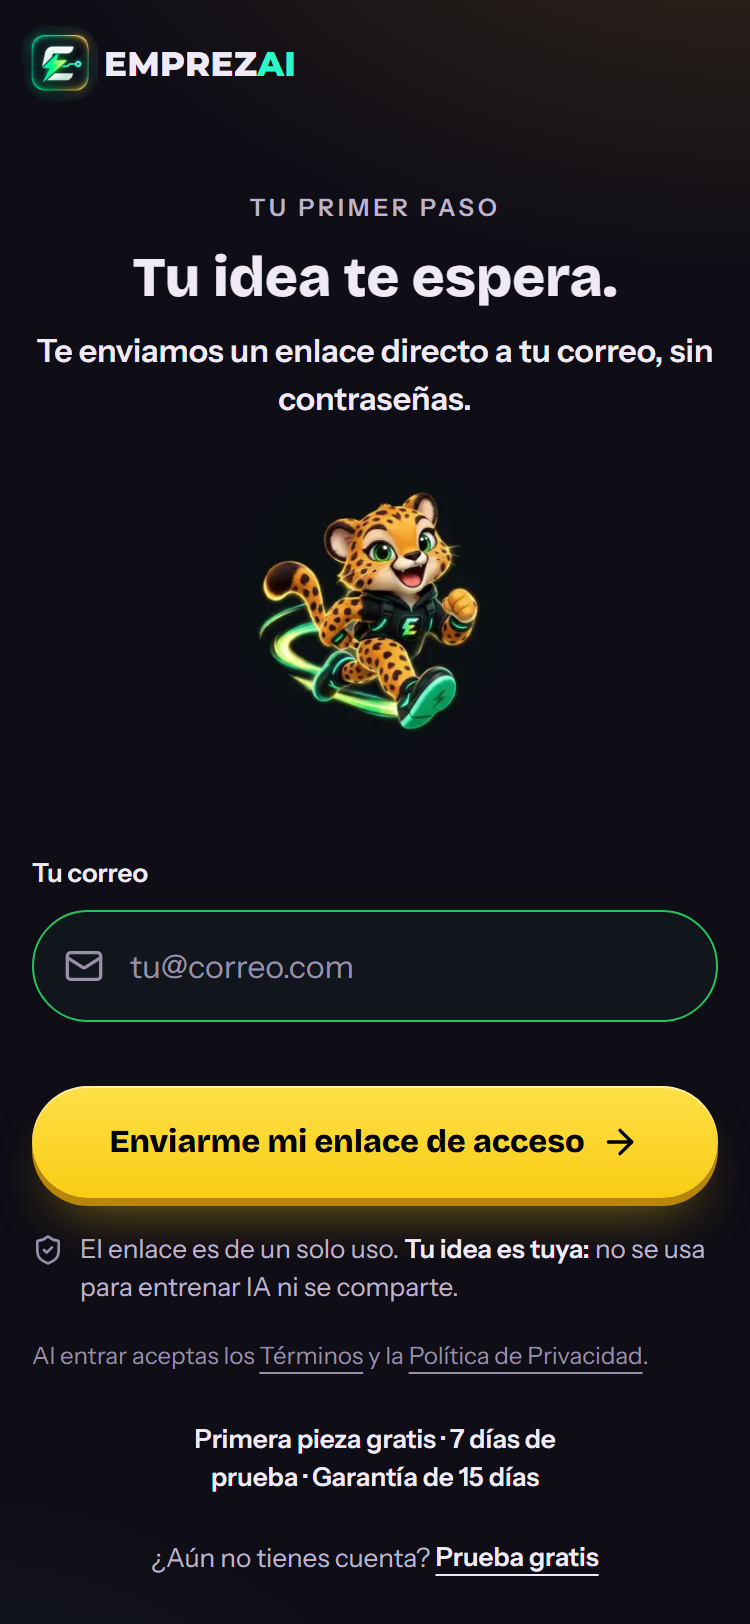
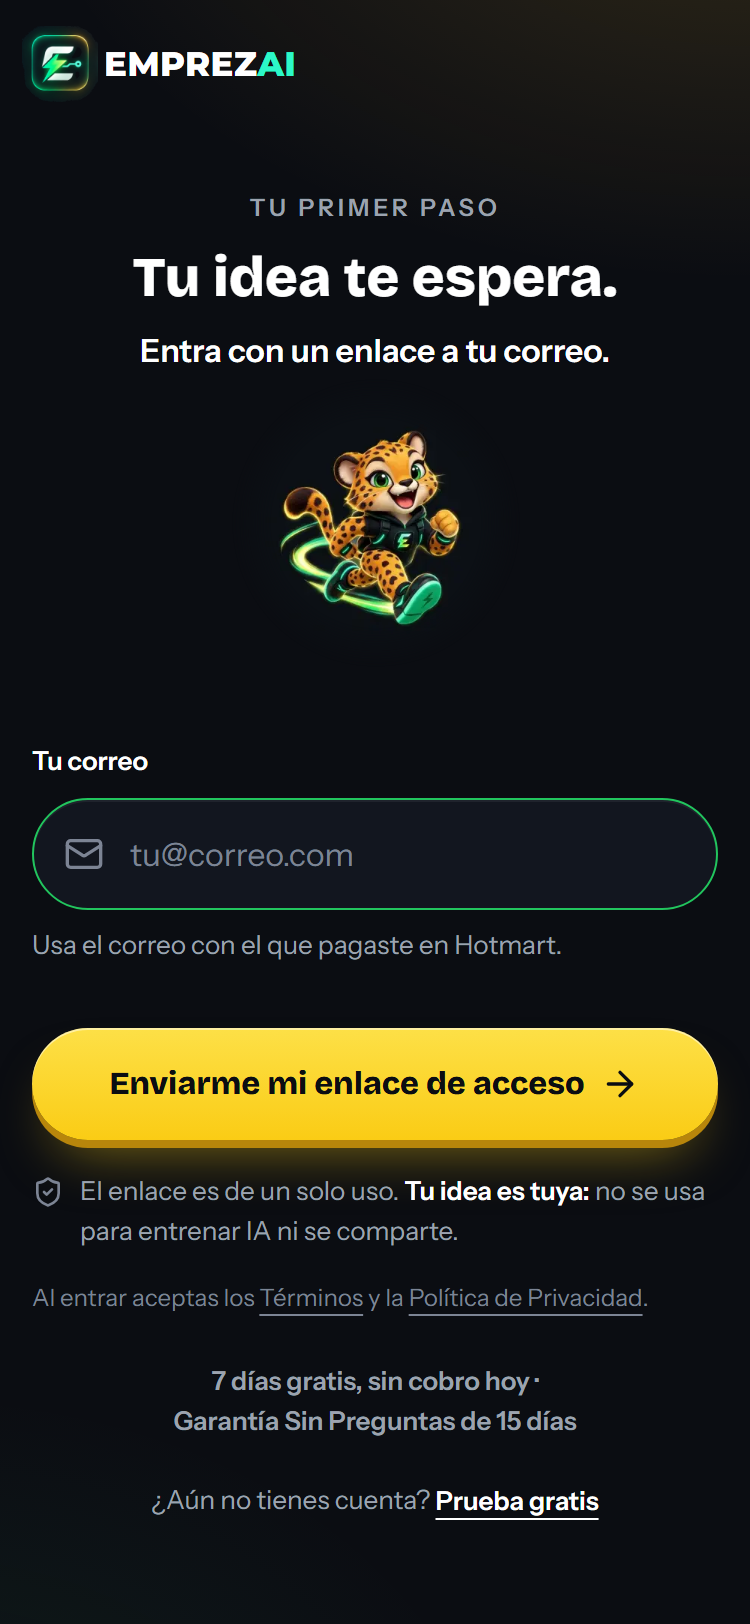
wip: portada y Entrar con paleta oficial, oferta única y demo (NO LISTA 32/40 y 30/40)

diff --git a/components/acceso/Acceso.tsx b/components/acceso/Acceso.tsx
@@ -15,6 +15,7 @@ import Link from 'next/link';
 import { useRouter } from 'next/navigation';
 import { AnimatePresence, motion, useReducedMotion } from 'motion/react';
 import Image from 'next/image';
+import { FraseOferta } from '@/components/landing/FraseOferta';
 import { ArrowRight, Check, Mail, CheckCircle2, CircleAlert, Copy, KeyRound, LoaderCircle, MailCheck, RotateCcw, ShieldCheck } from 'lucide-react';
 import { Marca } from '@/components/app/Marca';
 import { CheckCustom, EASE_SALIDA, RutaMini, TituloAcento, vibrar } from '@/components/onboarding/piezas';
@@ -317,7 +318,7 @@ export function Acceso() {
   });
 
   return (
-    <main className="fondo-recorrido min-h-dvh overflow-x-clip">
+    <main className="fondo-recorrido paleta-portada min-h-dvh overflow-x-clip">
       <div className="mx-auto flex min-h-dvh w-full max-w-md flex-col px-4 pb-8">
         <motion.header {...entrar(0)} className="flex h-16 items-center">
           <Link href="/" className="flex min-h-11 items-center gap-2" aria-label="EMPREZAI, ir al inicio">
@@ -526,14 +527,14 @@ export function Acceso() {
               <motion.div {...entrar(1)} className="text-center">
                 <p className="text-xs font-semibold tracking-[0.16em] text-ink-2 uppercase">Tu primer paso</p>
                 <h1 className="mt-3 font-display text-pregunta font-extrabold text-ink-1">Tu idea te espera.</h1>
-                <p className="mt-2 text-base font-semibold text-ink-1">Te enviamos un enlace directo a tu correo, sin contraseñas.</p>
-                <div className="relative mx-auto mt-2 aspect-square w-full max-w-44">
+                <p className="mt-2 text-base font-semibold text-ink-1">Entra con un enlace a tu correo.</p>
+                <div className="relative mx-auto mt-2 aspect-square w-full max-w-36">
                   <Image
                     src="/images/jaguar-login.webp"
                     alt=""
                     fill
                     priority
-                    sizes="176px"
+                    sizes="144px"
                     style={reduce ? undefined : { animation: 'personaje-flota 3.2s ease-in-out infinite' }}
                     className="object-contain [mask-image:radial-gradient(closest-side,#000_72%,transparent_100%)]"
                   />
@@ -606,11 +607,12 @@ export function Acceso() {
                   aria-invalid={Boolean(errorCampo)}
                   aria-describedby={errorCampo ? `${idCampo}-error` : undefined}
                   key={intentos}
-                  className={`h-14 w-full rounded-[var(--radius-pill)] border bg-[var(--portada-campo)] pr-5 pl-12 text-base text-ink-1 placeholder:text-ink-3 focus:outline-none ${
+                  className={`h-14 w-full rounded-[var(--radius-pill)] border bg-[var(--surface)] shadow-[inset_0_1px_0_rgb(255_255_255/0.06)] pr-5 pl-12 text-base text-ink-1 placeholder:text-ink-3 focus:outline-none ${
                     errorCampo ? 'sacudir border-danger' : 'border-[var(--portada-borde)] focus:border-[var(--portada-verde)]'
                   }`}
                 />
                 </div>
+                <p className="text-caption text-ink-2">Usa el correo con el que pagaste en Hotmart.</p>
                 {errorCampo && (
                   <p id={`${idCampo}-error`} role="alert" className="text-caption text-danger">
                     {errorCampo}
@@ -696,8 +698,8 @@ export function Acceso() {
                 </p>
               </motion.form>
 
-              <motion.p {...entrar(3)} className="mt-6 text-balance text-center text-caption font-semibold text-ink-1">
-                Primera pieza gratis · 7 días de prueba · Garantía de 15 días
+              <motion.p {...entrar(3)} className="mt-6 text-balance text-center text-caption font-semibold text-ink-2">
+                <FraseOferta />
               </motion.p>
 
               {!tienePieza && (

diff --git a/components/landing/DemoMision.tsx b/components/landing/DemoMision.tsx
@@ -1,0 +1,45 @@
+// Mini demo estático: cómo se ve una misión de 5 minutos resuelta por la IA (ejemplo rotulado como tal).
+import { Check, Clock, Sparkles } from 'lucide-react';
+
+export function DemoMision() {
+  return (
+    <section aria-labelledby="demo-mision" className="px-4 py-12">
+      <div className="mx-auto max-w-[620px]">
+        <h2 id="demo-mision" className="text-balance text-center font-display text-pregunta font-bold text-ink-1">
+          Así se ve una misión de 5 minutos
+        </h2>
+        <p className="mt-2 text-center text-caption text-ink-2">Ejemplo con un negocio inventado. En la app, la IA usa tus respuestas.</p>
+
+        <div className="mt-8 rounded-[var(--radius-card)] border border-[var(--portada-borde)] bg-[var(--surface)] p-4 shadow-[var(--shadow-2)]">
+          <div className="flex items-center justify-between text-xs font-semibold tracking-[0.08em] text-ink-2 uppercase">
+            <span>Tu misión de hoy</span>
+            <span className="inline-flex items-center gap-1 text-ink-1">
+              <Clock size={16} aria-hidden="true" />5 min
+            </span>
+          </div>
+          <p className="mt-3 font-display text-base font-bold text-ink-1">¿Qué problema resuelves y para quién?</p>
+          <p className="mt-3 flex items-start gap-2 text-base text-ink-2">
+            <Check size={16} className="mt-1 shrink-0 text-[var(--portada-verde)]" aria-hidden="true" />
+            <span>
+              Tu respuesta: <strong className="font-semibold text-ink-1">«Ayudo a mamás ocupadas a preparar comida sana en 20 minutos.»</strong>
+            </span>
+          </p>
+
+          <div className="mt-4 border-t border-[var(--portada-borde)] pt-4">
+            <p className="inline-flex items-center gap-2 text-xs font-semibold tracking-[0.08em] text-[var(--portada-amarillo)] uppercase">
+              <Sparkles size={16} aria-hidden="true" />
+              La IA armó tu propuesta de valor
+            </p>
+            <p className="mt-2 text-base leading-relaxed text-ink-1">
+              «Comida sana para mamás con poco tiempo: <strong className="font-bold">menús listos en 20 minutos</strong>, sin pensar qué cocinar cada noche.»
+            </p>
+            <p className="mt-3 inline-flex items-center gap-2 text-caption font-semibold text-ink-2">
+              <Check size={16} className="text-[var(--portada-verde)]" aria-hidden="true" />
+              Guardada en Mi Empresa, lista para usar
+            </p>
+          </div>
+        </div>
+      </div>
+    </section>
+  );
+}

diff --git a/app/page.tsx b/app/page.tsx
@@ -26,6 +26,7 @@ import {
 } from 'lucide-react';
 import Image from 'next/image';
 import { HeroPortada } from '@/components/landing/HeroPortada';
+import { DemoMision } from '@/components/landing/DemoMision';
 import { QueRecibes } from '@/components/landing/QueRecibes';
 import { Problema } from '@/components/landing/Problema';
 import { Agitacion } from '@/components/landing/Agitacion';
@@ -64,10 +65,12 @@ export default function PaginaDeVentas() {
   useEventoAlMontar('landing_vista');
 
   return (
-    <div className="min-h-dvh bg-[var(--bg)] text-[var(--text-primary)] [font-family:var(--font-body)]">
+    <div className="paleta-portada min-h-dvh bg-[var(--bg)] text-[var(--text-primary)] [font-family:var(--font-body)]">
       <HeroPortada ctaHref={CTA_HREF} loginHref="/login" />
 
       <QueRecibes />
+
+      <DemoMision />
 
       <Problema
         titulo="¿Te suena [acento]alguna de estas noches[/acento]?"
@@ -129,9 +132,9 @@ export default function PaginaDeVentas() {
         tituloMarked="Empieza gratis. Sigue por [acento]$0.22 al día[/acento]"
         trialDias={7}
         stack={{
-          lineas: [{ resultado: 'Mes a mes', valor: '$119.88' }],
+          lineas: [{ resultado: 'Pagando mes a mes por un año', valor: '$119.88' }],
           totalTachado: '$119.88',
-          nota: 'Anual: $79.99',
+          nota: `Plan anual: $79.99 · ahorras ${AHORRO_ANUAL}`,
         }}
         anual={{
           nombre: 'Anual',
@@ -231,7 +234,7 @@ export default function PaginaDeVentas() {
         ]}
       />
 
-      <StickyCtaMobile labelComercial={CTA_LABEL} href={CTA_HREF} />
+      <StickyCtaMobile labelComercial={CTA_LABEL} href={CTA_HREF} labelPre="Empezar mis 7 días gratis" />
     </div>
   );
 }

diff --git a/components/landing/Oferta.tsx b/components/landing/Oferta.tsx
@@ -8,6 +8,7 @@
 // la card recomendada (el uso canónico de la técnica) · checkmarks custom.
 // El destino de los CTAs sigue al MODELO de 02C (checkout vs /onboarding).
 
+import { FraseOferta } from './FraseOferta';
 import { motion } from 'motion/react';
 import { ShieldCheck, Star } from 'lucide-react';
 import { CheckCustom, CtaButton, Hairline, Kicker, SectionShell, useReveal, VIEWPORT_ONCE, EnlaceCta } from './ui';
@@ -114,6 +115,7 @@ export function Oferta({
           <h2 className="text-balance text-[30px] font-bold leading-[1.15] text-[var(--text-primary)] [font-family:var(--font-display)] md:text-[40px]">
             <MarkedCopy text={tituloMarked} />
           </h2>
+          <p className="mt-3 text-balance text-center text-[16px] font-semibold text-[var(--text-primary)]"><FraseOferta /></p>
         </motion.div>
 
         {/* Stack de valor Hormozi — ARRIBA de los planes; el tachado es del TOTAL
@@ -124,7 +126,7 @@ export function Oferta({
             className="tarjeta-relieve mx-auto mt-8 max-w-[560px] rounded-[var(--radius-card)] px-5 py-4 text-center text-[16px] text-[var(--text-secondary)]"
           >
             <span className="block">
-              {stack.lineas[0]?.resultado}: <span className="tabular-nums line-through">{stack.totalTachado}</span>/año
+              {stack.lineas[0]?.resultado}: <span className="tabular-nums">{stack.totalTachado}</span> al año
             </span>
             {stack.nota && <span className="mt-1 block font-semibold text-[var(--text-primary)]">{stack.nota}</span>}
           </motion.p>

diff --git a/components/landing/HeroPortada.tsx b/components/landing/HeroPortada.tsx
@@ -9,6 +9,7 @@ import { ArrowRight } from 'lucide-react';
 import { motion, useReducedMotion } from 'motion/react';
 import { Marca } from '@/components/app/Marca';
 import { EnlaceCta } from './ui';
+import { FraseOferta } from './FraseOferta';
 
 export function HeroPortada({ ctaHref, loginHref }: { ctaHref: string; loginHref: string }) {
   const reduce = useReducedMotion();
@@ -76,13 +77,8 @@ export function HeroPortada({ ctaHref, loginHref }: { ctaHref: string; loginHref
           </motion.div>
 
           <motion.div {...entrar(4)} className="mt-3 flex flex-col items-center gap-1 text-caption text-ink-2">
-            <p>
-              <strong className="font-semibold text-ink-1">5 minutos al día</strong> · <strong className="font-semibold text-ink-1">Empieza gratis</strong>
-            </p>
-            <p className="max-w-[30ch] text-balance">
-              Cada día la IA arma <strong className="font-semibold text-ink-1">una pieza de tu negocio</strong>.
-            </p>
-            <p className="text-ink-2">Prueba de 7 días · Garantía de 15 días · Cancelas cuando quieras</p>
+            <p className="font-semibold text-ink-1">5 minutos al día</p>
+            <p className="font-semibold text-ink-1"><FraseOferta /></p>
           </motion.div>
 
           <motion.div {...entrar(5)} className="relative mt-4 aspect-square w-full max-w-60">

diff --git a/app/globals.css b/app/globals.css
@@ -526,7 +526,7 @@ body {
 }
 .boton-portada {
   background: linear-gradient(180deg, var(--portada-amarillo-claro), var(--portada-amarillo));
-  color: #000;
+  color: #0b0d12;
   font-weight: 800;
   box-shadow:
     inset 0 1px 0 rgb(255 255 255 / 0.5),
@@ -543,4 +543,17 @@ body {
 @keyframes personaje-flota {
   0%, 100% { transform: translateY(0); }
   50% { transform: translateY(-6px); }
+}
+
+/* Paleta oficial de EMPREZAI (dueña, 2026-11-24): solo portada y Entrar. Un único amarillo (#facc15). */
+.paleta-portada {
+  --bg: #0b0d12; --surface: #12161f; --surface-2: #0b0d12;
+  --text-primary: #ffffff; --text-secondary: #9ca3af; --text-tertiary: #7c8494;
+  --accent: #facc15; --accent-2: #22c55e; --accent-on-inverse: #facc15; --inverse-bg: #12161f; --frame: #1f2937;
+  --cta-relieve: 0 4px 0 #b8860b;
+  --gold: #facc15; --gold-light: #fde047; --gold-deep: #b8860b; --on-gold: #0b0d12;
+  --green: #22c55e; --green-light: #4ade80; --green-deep: #16a34a;
+  --surface-base: #0b0d12; --surface-raised: #12161f; --surface-raised-2: #12161f; --surface-sunken: #0b0d12;
+  --ink-1: #ffffff; --ink-2: #9ca3af; --ink-3: #7c8494; --line: #1f2937;
+  --portada-borde: #1f2937;
 }

diff --git a/components/landing/QueRecibes.tsx b/components/landing/QueRecibes.tsx
@@ -1,11 +1,12 @@
 // Justo debajo de la portada: qué es EMPREZAI y qué recibe la persona, en 4 datos claros.
+import { FRASE_OFERTA } from './ofertaFrase';
 import { CalendarRange, Clock, Gift, Sparkles } from 'lucide-react';
 
 const DATOS = [
   { icono: CalendarRange, titulo: 'Una ruta de 30 días', detalle: 'Te guía paso a paso, desde tu idea hasta tu negocio armado.' },
   { icono: Clock, titulo: '5 minutos al día', detalle: 'Una misión corta desde el celular. Sin cursos largos.' },
   { icono: Sparkles, titulo: 'La IA arma tus piezas', detalle: 'Tu oferta, tu nombre y tus textos se crean dentro de la app: no copias nada.' },
-  { icono: Gift, titulo: 'Pruébala sin riesgo', detalle: 'Primera pieza gratis, 7 días de prueba y garantía de 15 días.' },
+  { icono: Gift, titulo: 'Pruébala sin riesgo', detalle: FRASE_OFERTA + '.' },
 ];
 
 export function QueRecibes() {

diff --git a/components/landing/FraseOferta.tsx b/components/landing/FraseOferta.tsx
@@ -1,0 +1,10 @@
+import { OFERTA_TRIAL, OFERTA_GARANTIA } from './ofertaFrase';
+
+/** La frase de oferta única; el corte de línea cae siempre entre las dos ideas, nunca dentro de ellas. */
+export function FraseOferta({ className = '' }: { className?: string }) {
+  return (
+    <span className={`inline-block text-balance ${className}`}>
+      <span className="whitespace-nowrap">{OFERTA_TRIAL}</span> · <span className="whitespace-nowrap">{OFERTA_GARANTIA}</span>
+    </span>
+  );
+}

diff --git a/components/landing/ofertaFrase.ts b/components/landing/ofertaFrase.ts
@@ -1,0 +1,4 @@
+// Una sola frase de oferta, idéntica en la portada, en «Qué recibes», en los planes y en Entrar.
+export const OFERTA_TRIAL = '7 días gratis, sin cobro hoy';
+export const OFERTA_GARANTIA = 'Garantía Sin Preguntas de 15 días';
+export const FRASE_OFERTA = `${OFERTA_TRIAL} · ${OFERTA_GARANTIA}`;

diff --git a/docs/revisiones/entrar-veredicto.md b/docs/revisiones/entrar-veredicto.md
@@ -1,19 +1,19 @@
 # VEREDICTO revisor-visual — entrar
-Fecha: 2026-11-24 14:00
+Fecha: 2026-11-24 16:00
 Screenshot: docs/revisiones/entrar-375.png
-Usabilidad: 29/40
+Usabilidad: 30/40
 Craft: 14/20
 Copy (si vende): N-A
 Fidelidad (si hubo referencia): N-A
 Veredicto: NO LISTA
 Top defectos:
-1. Se perdió la instrucción de qué correo usar. Al quitar «Usa el correo con el que pagaste en Hotmart», en el estado inicial nada dice que el enlace solo llega si ese correo tiene una compra activa; esa condición solo aparece después de enviar («Si tiene una compra activa…», l.401). Quien se registró con otro correo espera un enlace que no llega. Fix: ponerlo como ayuda bajo el label, p. ej. «Tu correo de compra» o una línea «El correo con el que pagaste».
-2. Subtítulo «Te enviamos un enlace directo a tu correo, sin contraseñas.» está en pasado (aún no se envió), parte en dos líneas con «contraseñas.» huérfana, y repite «sin contraseñas» con la línea del escudo. Fix: «Entra con un enlace a tu correo.» (1 línea) y en el escudo dejar solo «El enlace es de un solo uso».
-3. Pie «Primera pieza gratis · 7 días de prueba · Garantía de 15 días» y salida «Prueba gratis» mezclan tres ideas de gratuidad/garantía. En blanco bold pesa más que el escudo y los Términos y compite con el botón. Además no pude verificar estos plazos contra FICHA-MERCADO; si no coinciden con lo que ofrece Hotmart, es una promesa falsa. Fix: dejar una sola promesa y bajarla a ink-2; confirmar los plazos en FICHA-MERCADO.
-4. Profundidad: campo #11151C sobre #0B0D12 y fondo casi plano; solo el borde verde (que está activo por autoFocus) lo separa. Fix: 1px de luz interior en el campo y superficie elevada sutil en el formulario.
-5. Alineación mixta: títulos y pie centrados; label «Tu correo», escudo y Términos a la izquierda; Términos en ~12px ink-3. Fix: alinear en un solo eje.
+1. Pie «7 días gratis, sin cobro hoy · Garantía Sin Preguntas de 15 días» se parte dejando el punto medio «·» huérfano al final de la primera línea, y la mayúscula «Sin Preguntas» es inconsistente con el resto del copy. Fix: dos líneas explícitas sin separador («7 días gratis, sin cobro hoy» / «Garantía sin preguntas de 15 días») o un solo mensaje corto.
+2. Hueco muerto entre la mascota y el label «Tu correo» (~70 px a 375 de ancho): la mascota se redujo pero el contenedor conserva su alto. Fix: ajustar el aspect-ratio/altura del contenedor para que el hueco sea ≤32 px.
+3. Fondo casi plano: el campo (#12161F con luz interior) se despega algo, pero la zona del formulario no tiene superficie elevada visible y el resto del fondo sigue en un solo plano. Fix: tarjeta o banda #12161F con hairline #1F2937 bajo el formulario, o un radial sutil detrás de la mascota.
+4. Alineación mixta: títulos y pie centrados; label, ayuda, escudo y Términos a la izquierda; Términos en ~12px ink-3 (text-xs, l.688). Fix: un solo eje o subir los Términos a text-caption.
+5. Dos promesas de gratuidad cerca («7 días gratis, sin cobro hoy» y «Prueba gratis») y ninguna aclara cómo se combina con «el correo con el que pagaste». Verifica los plazos contra FICHA-MERCADO/Hotmart (no pude confirmarlos). Fix: quedarse con una sola frase de oferta y confirmar su exactitud.
 
-Mejoras verificadas: ya no dice «crea tu cuenta»; botón «Enviarme mi enlace de acceso» (el texto sin servidor «Guardar mi correo de acceso» sigue en código); sin RutaMini ni párrafo de Hotmart en el inicio; la pantalla cabe en una sola vista sin scroll; mascota 176px con flotado (se desactiva con reduced-motion); una sola salida «Prueba gratis». CTA vivo (contraste alto, 56px, tap con translateY, valida al enviar). No se puntuó la rama «enviado/código» (no está en la captura); por código conserva .boton-oro y campo bg-sunken, distintos del inicio.
+Corregido y verificado en esta ronda: subtítulo en una línea (l.530); ayuda exacta «Usa el correo con el que pagaste en Hotmart.» pegada al campo (l.615); mascota 176px con flotado que respeta reduced-motion; campo con luz interior (inset 1px) sobre --surface; toda la pantalla cabe en una vista sin scroll; CTA vivo (contraste alto, 56px, tap con translateY, valida al enviar); la rama «enviado/código» hereda .paleta-portada (no está en la captura, no puntuada visualmente). Verificado en código: autoFocus, correo recordado, sugerencia de dominio mal escrito, errores con solución, volver (logo, «Usar otro correo»), aria-live.
 
-Detalle usabilidad: h1:3 h2:3 h3:3 h4:3 h5:3 h6:2 h7:3 h8:3 h9:3 h10:3
+Detalle usabilidad: h1:3 h2:3 h3:3 h4:3 h5:3 h6:3 h7:3 h8:3 h9:3 h10:3
 Detalle craft: jerarquía:3 profundidad:2 identidad:3 movimiento:3 encaje:3

diff --git a/docs/revisiones/landing-veredicto.md b/docs/revisiones/landing-veredicto.md
@@ -1,9 +1,9 @@
-# VEREDICTO revisor-visual — landing (portada completa: hero + bloque "Qué recibes")
-Fecha: 2026-11-24 14:00
+# VEREDICTO revisor-visual — landing (portada completa: hero + qué recibes + demo + problema + planes)
+Fecha: 2026-11-24 16:00
 Screenshot: docs/revisiones/landing-375.png
-Usabilidad: 29/40
-Craft: 14/20
-Copy (si vende): 14/20
+Usabilidad: 32/40
+Craft: 15/20
+Copy (si vende): 16/20
 Fidelidad (si hubo referencia): FIEL
 Veredicto: NO LISTA
-Top defectos: 1) La oferta se contradice en dos lugares: "Empieza gratis", "Primera pieza gratis" y "Prueba de 7 días" no dicen si hay que poner tarjeta ni cuándo se cobra, y la garantía de 15 días no tiene nombre. 2) El microcopy del hero son 3 bloques apilados con huérfanos ("quieras", corte "una / pieza de tu negocio"), que cargan el borde del botón con más texto que el propio botón. 3) Hay dos amarillos distintos (#FACC15 del hero y #FFC23D del eyebrow y del botón fijo) y dos textos de acción ("Materializar mi idea hoy" y "Ver plan y precios"), lo que rompe la consistencia. 4) El bloque "Qué recibes" es una lista genérica de 4 íconos en chips, sin una captura de la app que enseñe la misión en acción. 5) En el hero no hay una escena de dolor con la hoja en blanco de las 7 PM. La agitación empieza recién en la sección 3.
+Top defectos: 1) El separador "·" queda colgando al final de la línea ("sin cobro hoy ·") en el hero y en el encabezado de planes, así que la frase parte la idea pero deja un punto huérfano. 2) El ahorro de $39.89 aparece tres veces en la misma pantalla de planes (caja de comparación, "Ahorras" y plan anual), lo que repite y diluye. 3) La tarjeta de comparación y la tarjeta anual duplican precio ($79.99 y $6.67/mes y $0.22/día), con demasiados números compitiendo por ser el dato héroe. 4) Craft sin un detalle firma extra más allá del personaje: el resto (chips de ícono, tarjetas) es intercambiable con otra app oscura con acento amarillo. 5) El "Probar gratis" de la cabecera sigue duplicando el CTA principal (decisión de la dueña, solo anotado).
